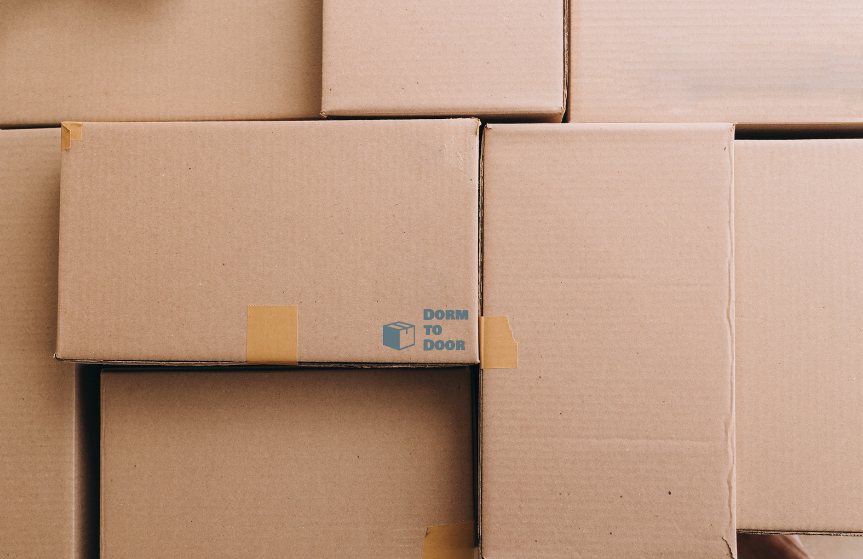
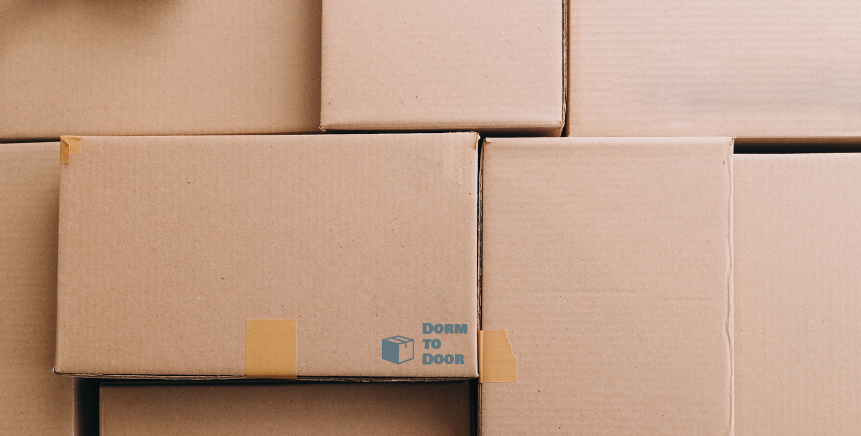
pre final

diff --git a/Dorm To Door/more.html b/Dorm To Door/more.html
@@ -145,7 +145,9 @@ https://templatemo.com/tm-583-festava-live
                                   <span class="item">$175/person</span>
                                   <span class="item">*Valid for 4 months</span>
                                   <span class="item-button"> 
+                                    <a href="book.html">
                                     <button class="btn custom-btn">Book Now</button>
+                                    </a>
                                   </span>
                                 </div>
                                 <div class="list-item">
@@ -154,7 +156,9 @@ https://templatemo.com/tm-583-festava-live
                                   <span class="item">$165/person</span>
                                   <span class="item">*Valid for 4 months</span>
                                   <span class="item-button"> 
+                                    <a href="book.html">
                                     <button class="btn custom-btn">Book Now</button>
+                                    </a>
                                   </span>
                                 </div>
                                 <div class="list-item">
@@ -163,7 +167,9 @@ https://templatemo.com/tm-583-festava-live
                                   <span class="item">$150/person</span>
                                   <span class="item">*Valid for 4 months</span>
                                   <span class="item-button"> 
+                                    <a href="book.html">
                                     <button class="btn custom-btn">Book Now</button>
+                                    </a>
                                   </span>
                                 </div>
                               </div>
@@ -184,7 +190,9 @@ https://templatemo.com/tm-583-festava-live
                                   <span class="item">$175</span>
                                   <span class="item">*Moving from Dorm/House to Dorm/House/Car/Curbside Only, Storage Not Included*</span>
                                   <span class="item-button"> 
+                                    <a href="book.html">
                                     <button class="btn custom-btn">Book Now</button>
+                                    </a>
                                   </span>
                                 </div>
                                 <div class="list-item">
@@ -193,7 +201,9 @@ https://templatemo.com/tm-583-festava-live
                                   <span class="item">$200</span>
                                   <span class="item">*Services from Dorm/House to an off campus storage facility, Storage Not Included*</span>
                                   <span class="item-button"> 
+                                    <a href="book.html">
                                     <button class="btn custom-btn">Book Now</button>
+                                    </a>
                                   </span>
                                 </div>
                               </div>

diff --git a/Dorm To Door/css/templatemo-festava-live.css b/Dorm To Door/css/templatemo-festava-live.css
@@ -558,6 +558,13 @@ strong {
 /*---------------------------------------
   ABOUT              
 -----------------------------------------*/
+.services-info {
+  border-radius: var(--border-radius-medium);
+  padding: 50px;
+  position: relative;
+  z-index: 2;
+}
+
 .about-section {
   background-image: url("../images/Dorm to Door/2.png");
   background-color: #704010;
@@ -571,18 +578,18 @@ strong {
   position: absolute;
   height: 100%;
   pointer-events: none;
-  width: var(--logo-width);
+  width: 40%;
   z-index: 2;
   bottom: 0;
 }
 
 .about-section::before {
-  background: linear-gradient(to right, #000000 0%, transparent 100%);
+  background: linear-gradient(to right, #8b6f5c 0%, transparent 100%);
   left: 0;
 }
 
 .about-section::after {
-  background: linear-gradient(to left, #000000 0%, transparent 100%);
+  background: linear-gradient(to left, #8b6f5c 0%, transparent 100%);
   right: 0;
 }
 
@@ -632,17 +639,25 @@ strong {
   TICKET               
 -----------------------------------------*/
 .ticket-section {
-  background-image: url("../images/nicholas-green-unsplash-blur.jpg");
+  background-image: url("../images/Dorm to Door/3c.png");
   background-repeat: no-repeat;
   background-size: cover;
   position: relative;
   padding-top: 130px;
+  backdrop-filter: blur(5px) ;
+  z-index: 1;
+}
+
+.ticket-section form {
+  position: relative;
+  z-index: 4;
 }
 
 .ticket-form {
   background: var(--white-color);
   border-radius: var(--border-radius-medium);
   padding: 50px;
+  z-index: 4;
 }
 
 .ticket-form .form-check {
@@ -2271,6 +2286,8 @@ find university and about-section scroll view,
   opacity: 0;
   transform: translateY(100px);
   transition: opacity 0.8s ease-out, transform 0.8s ease-out;
+  align-self: center;
+  z-index: 3;
 }
 
 .about-wrap-fade-up.visible {

diff --git a/Dorm To Door/index.html b/Dorm To Door/index.html
@@ -81,17 +81,20 @@
                         <li class="nav-item"></li>
                             <a class="nav-link click-scroll" href="index.html#section_4">About</a>
                         </li>
+                        
+
+                        <li class="nav-item">
+                            <a class="nav-link" href="login.html">Login</a>
+                        </li>
+
                         -->
 
                         <li class="nav-item">
                             <a class="nav-link click-scroll" href="index.html#section_6">Contact</a>
                         </li>
 
-                        <li class="nav-item">
-                            <a class="nav-link" href="login.html">Login</a>
-                        </li>
-
-                            
+                         
+                                            
                     </ul>             
                     <a href="book.html" class="btn custom-btn d-lg-block d-none">Book Now!</a>
                 </div>
@@ -678,6 +681,10 @@
 
                         <li class="site-footer-link-item">
                             <a href="more.html#faq-1720" class="site-footer-link footer-navlink">FAQs</a>
+                        </li>
+
+                        <li class="site-footer-link-item">
+                            <a href="locations.html" class="site-footer-link footer-navlink">Locations</a>
                         </li>
 
                         <li class="site-footer-link-item">
